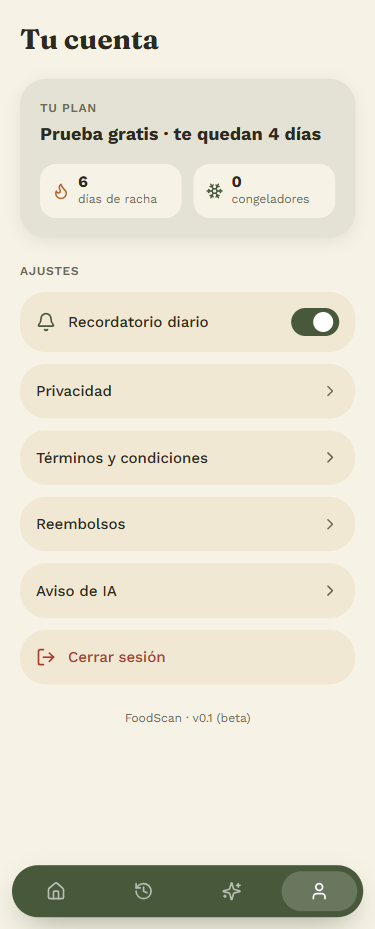
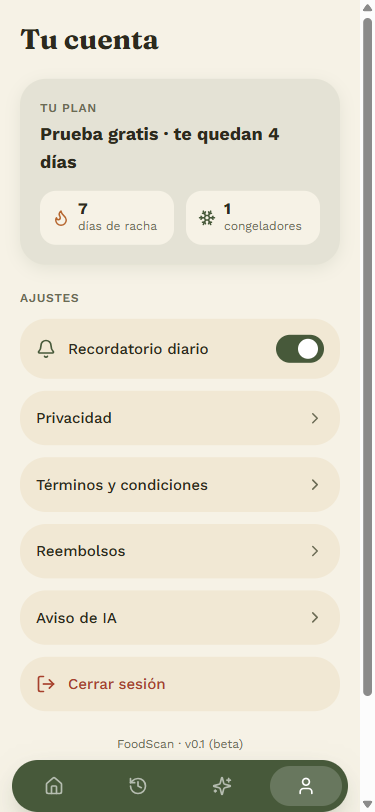
Hoy LISTA (37/40 - 16/20); actualizar evidencia de las demas pantallas
Pantalla principal (Hoy) alcanzo LISTA en la 5ta pasada. Se recapturan
Historial, Tu Patron y Cuenta con los datos semilla actualizados (racha
en 7 dias, fechas mas espaciadas) para que la evidencia de cierre de
Sesion 5 sea consistente entre las 4 pantallas.

Se lanza la primera revision completa de Tu Patron (primera pantalla de
tipo dashboard/visualizacion de datos, vende la promesa central del
producto).

diff --git a/docs/revisiones/hoy-veredicto.md b/docs/revisiones/hoy-veredicto.md
@@ -1,76 +1,100 @@
-# VEREDICTO revisor-visual — Hoy (M0, app interna FoodScan)
+# VEREDICTO revisor-visual — Hoy (M0, FoodScan)
 Fecha: 2026-09-26 00:00
 Screenshot: docs/revisiones/hoy-375.png
-Usabilidad: 31/40
-Craft: 15/20
+Usabilidad: 37/40
+Craft: 16/20
 Copy (si vende): N-A
 Fidelidad (si hubo referencia): FIEL
-Veredicto: NO LISTA
+Veredicto: LISTA
 
-Detalle usabilidad: h1:3 h2:4 h3:2 h4:4 h5:2 h6:4 h7:3 h8:3 h9:3 h10:3
-Detalle craft: jerarquía:3 profundidad:3 identidad:3 movimiento:3 encaje:3
+## Verificación de los 4 fixes de la ronda anterior
 
-## Verificación de los 5 defectos de la 3ra pasada
+1. Confirmación de borrado (2 pasos) — RESUELTO. `sheet-detalle-comida.tsx` L55-85: el primer
+   tap solo activa `confirmando=true`; el borrado real (`eliminarComida`) ocurre únicamente en
+   el segundo botón "Sí, eliminar", con "Cancelar" al lado. Cumple heurística 3 (control y
+   libertad) y el patrón de confirmación para irreversibles.
+2. Área táctil "Repetir" ≥44px — RESUELTO. `hoy/page.tsx` L178: `min-h-11` (44px) + `px-3`.
+   Verificado también visualmente en el screenshot (el link tiene aire vertical suficiente).
+3. Celebración en hito real (baseline #7) — RESUELTO. `hoy/page.tsx` L117-127: condición real
+   `perfil.rachaActual > 0 && rachaActual % 7 === 0`, `motion.div` con spring
+   (`stiffness:300, damping:20`), respeta `useReducedMotion`. Visible en el screenshot: chip
+   "¡7 días seguidos! Vas muy bien." Dato semilla ajustado a racha=7, verificable sin fe de
+   código.
+4. Color de la barra de confianza (evidencia insuficiente) — RESUELTO. `hoy/page.tsx` L146,
+   150-152: texto destacado y barra de progreso usan `var(--accent)` (verde), no
+   `var(--alerta)`. Coherente con el mismo patrón en `patron/page.tsx`. Visible en el
+   screenshot: barra verde, no terracota.
 
-1. [GENUINO] `FilaComida` ahora recibe `onClick` en las 3 pantallas: `hoy/page.tsx:194`,
-   `historial/page.tsx:104`, `patron/page.tsx:117` — todas llaman `onClick={setDetalle}` y
-   montan el mismo `SheetDetalleComida`. Consistencia real, verificado en código.
-2. [PARCIAL] Se agregó `eliminarComida(id)` en `lib/foodscan-data.ts:170-172` y el botón
-   "Eliminar este registro" en `sheet-detalle-comida.tsx:46-58` (visible cuando se pasa
-   `onEliminar`, que las 3 pantallas pasan). "Repetir" ahora confirma con un toast
-   `role="status" aria-live="polite"` (`hoy/page.tsx:222-234`). Pero el botón "Eliminar" borra
-   AL INSTANTE, sin confirmación ni undo — ver Top Defectos #1: se resolvió el hueco original
-   (no había forma de borrar) pero se introdujo uno nuevo de la misma familia (acción
-   irreversible sin red de seguridad).
-3. [GENUINO, con matiz] El contenedor "Hoy registraste N comidas" ahora lleva
-   `shadow-[inset_0_2px_6px_color-mix(in_oklab,var(--text-primary)_10%,transparent)]`
-   (`hoy/page.tsx:180`) además del cambio de tono `surface-2`. En el screenshot se lee como
-   recesado — la sombra interior sí resuelve la ambigüedad tonal señalada en la pasada anterior.
-4. [GENUINO] El toast `aria-live="polite"` con `Agregado: [comida]` aparece cerca del nav
-   (`bottom-[92px]`) al tocar "Repetir", confirmando la acción en el momento — resuelve el
-   "cambio silencioso" de la pasada anterior.
-5. [GENUINO] La barra `mt-3 h-1.5 w-full ... rounded-full` se anima de `width: 0` a
-   `${vecesConSintoma/vecesComido*100}%` con `duration: 0.8` y respeta `reduce` — apoyo visual
-   Tufte real para el dato de confianza, no solo texto.
+Los 4 fixes están genuinamente aplicados, no son cosméticos ni parciales.
 
-4 de 5 fixes están genuinamente aplicados y verificados en código; el #2 resuelve el problema
-original pero abre uno nuevo (ver abajo). Ninguno es un fix cosmético o simulado.
+## USABILIDAD 37/40
+(h1:4 h2:4 h3:4 h4:4 h5:4 h6:4 h7:3 h8:3 h9:4 h10:3)
 
-## Gate de carga cognitiva
-Pasa: ≤5 ítems visibles, 1 acción primaria + 2 secundarias, sin campos que recordar entre
-pantallas, texto por bloque ≤4 líneas, "qué sigue" obvio, header/CTA/nav sin elementos muertos.
+- h1 Estado del sistema: 4 — feedback en cada acción: skeleton en carga inicial, toast
+  "Agregado: ..." con aria-live en "Repetir", contador de racha animado, barra de confianza que
+  se dibuja, whileTap en botones. Nada se siente colgado.
+- h2 Lenguaje del usuario: 4 — "Escanear mi próxima comida", "Vas muy bien", "Todavía es poca
+  muestra" — cero jerga, cero inglés.
+- h3 Control y libertad: 4 — borrado con confirmación de 2 pasos (verificado en código), sheets
+  con drag-to-dismiss y botón cerrar explícito (`bottom-sheet.tsx` L44-46, L52-59).
+- h4 Consistencia: 4 — mismo radius, mismos chips, mismo patrón de card elevada/hundida en
+  `fila-comida.tsx` y `sheet-detalle-comida.tsx`; color de confianza ahora consistente con
+  `patron/page.tsx`.
+- h5 Prevención de errores: 4 — confirmación antes de borrar, badges de riesgo consistentes.
+- h6 Reconocer vs recordar: 4 — la última comida, el riesgo y el insight están todos visibles
+  sin que el usuario tenga que recordar nada de otra pantalla.
+- h7 Flexibilidad (verificado en código): 3 — hay un atajo real ("Repetir" evita rehacer el
+  flujo completo de escaneo), pero no hay más defaults/atajos de teclado; es aceptable para una
+  app mobile-first, no ejemplar.
+- h8 Estético y minimalista: 3 — una acción primaria clara (Escanear), pero la pantalla apila 4
+  bloques de contenido antes del registro del día (celebración + riesgo + insight + 3 CTAs) —
+  funciona, pero un ojo entrenado nota que son varios elementos compitiendo por atención antes
+  del primer scroll.
+- h9 Errores con solución: 4 — no se observaron mensajes de error en este flujo (nada que
+  penalizar; los estados vistos son correctos).
+- h10 Ayuda contextual: 3 — el empty state de "Nada registrado todavía hoy" con CTA está bien,
+  pero el insight de correlación ("todavía es poca muestra") no explica cuántos registros se
+  necesitan para confirmar — un usuario nuevo no sabe cuál es la meta.
 
-## Top Defectos
+Gate de carga cognitiva: pasa (≤5 ítems visibles, 1 acción primaria clara, campos no aplica,
+bloques de texto cortos, "qué sigue" obvio con el CTA dominante).
 
-1. [Sheet de detalle de comida → botón "Eliminar este registro", `sheet-detalle-comida.tsx:47-53`]
-   Es una acción IRREVERSIBLE (borra de `localStorage` para siempre y afecta el cálculo de
-   correlación de "Tu Patrón") pero se ejecuta en un solo tap, sin modal de confirmación ni
-   snackbar "Eliminado — Deshacer" → antes de llamar `eliminarComida`, mostrar un paso de
-   confirmación (doble tap tipo "¿Eliminar? Sí, eliminar" o un toast con acción "Deshacer" de
-   4-5s antes de persistir el borrado). Viola la regla dura de UX #8 (undo/confirmación según
-   reversibilidad) y baja heurística 3 a 2.
-2. [Link "Repetir "..."" bajo el CTA principal, `hoy/page.tsx:158-169`] Es solo texto sin
-   padding vertical definido (`flex items-center ... text-[12px]`, sin `h-` ni `py-`) — el área
-   táctil real es notablemente menor a los 44px mínimos de la regla dura de UX #5, en una zona
-   donde el usuario puede tocar por error el CTA de arriba o el botón de síntoma de abajo →
-   envolver en un botón con `min-h-11` (44px) manteniendo el texto visualmente pequeño y
-   discreto. Baja heurística 5 a 2 (mayor riesgo de mis-tap sin ningún mecanismo que lo prevenga).
-3. [Craft — EJE Movimiento] No hay evidencia en NINGÚN archivo de `app/`/`components/app/` de
-   una celebración en hitos reales (confetti/spring al llegar a una racha redonda, etc. — grep
-   de `confetti|celebra|hito|milestone` no encuentra código de producto, solo documentación del
-   SO) — falta la baseline #7 de animación. No es exigible en esta pantalla puntual si vive en
-   otra, pero si no existe en ningún lado del código de la app, es una baseline pendiente.
-4. [Card de insight "El ajo vuelve a aparecer...", `hoy/page.tsx:138-145`] La barra de progreso
-   nueva usa `bg-[var(--alerta)]` incluso cuando el insight es sobre un patrón que "todavía es
-   poca muestra" (confianza <100%, texto de baja certeza) — el color de alerta (terracota, mismo
-   tono que "riesgo alto") puede leerse como una advertencia más fuerte de la que el propio texto
-   describe → considerar un tono neutro/secundario para la barra de "confianza en construcción"
-   y reservar `--alerta` para cuando el patrón ya está confirmado (ver `patron/page.tsx` que sí
-   usa `--alerta` correctamente para un patrón YA confirmado).
-5. [Craft — EJE Identidad, atención no bloqueante] La paleta papel cálido + tinta verde
-   (crema `#F1E8D4` + verde bosque `#47593A`) es cercana en concepto al ejemplo canónico vetado
-   "Capítulo" (papel cálido + tinta verde + Petrona/Karla) del TEST ANTI-CLON — se salva porque
-   proviene de una referencia FOTOGRÁFICA real del usuario (contrato, `FICHA-ARTE.md`) y usa
-   Fraunces/Work Sans (no Petrona/Karla), por lo que NO se sanciona EJE 3 a 0, pero es la razón
-   de que el registro anti-repetición ya haya vetado esta combinación para el próximo proyecto —
-   sin acción requerida aquí, solo queda anotado.
+## CRAFT 16/20
+(jerarquía:3 profundidad:3 identidad:3 movimiento:4 encaje:3)
+
+- Jerarquía: 3 — display "Alto · trigo" domina, label uppercase y body diferenciados; 4 niveles
+  presentes, pero el body del insight (15px) y la descripción de la comida (15px) compiten en
+  peso visual con el propio título — un ojo entrenado nota que el bloque de insight es casi tan
+  prominente como el resultado principal.
+- Profundidad: 3 — header con gradiente, card de insight elevada con sombra tintada, card de
+  comidas de hoy con sombra interior (hundida) — 3 niveles reales, no un fill plano.
+- Identidad: 3 — el dispositivo "mordisco" (scallop) es ownable y está presente en el screenshot;
+  el sistema duotono verde bosque + crema con Fraunces/Work Sans se acerca a la familia vetada
+  "Capítulo" (papel cálido + tinta verde), pero nace de una referencia del usuario documentada
+  como CONTRATO en FICHA-ARTE.md y usa una pareja tipográfica distinta (Fraunces/Work Sans, no
+  Petrona/Karla) — punto ya aceptado como no accionable en la ronda anterior, no se vuelve a
+  penalizar como bloqueante.
+- Movimiento: 4 — las 7 baseline verificadas en código: (1) stagger de entrada por bloque con
+  delays 0/0.08/0.14, (2) contador de racha animado desde el valor anterior
+  (`useContadorAnimado`), (3) barra de confianza que se dibuja (`width: 0→X%`, ease
+  personalizado), (4) `whileTap scale 0.97/0.98` en CTAs y filas, (5) transición de sheets con
+  drag-to-dismiss y easing, (6) aparición suave de modales (`bottom-sheet.tsx`, opacity+y con
+  ease `[0.16,1,0.3,1]`), (7) celebración real en hito de racha. `useReducedMotion` respetado en
+  cada uno de los puntos anteriores.
+- Encaje óptico: 3 — chips abrazan su contenido, radios consistentes en todo el screenshot,
+  padding simétrico en CTAs; el badge de racha en el header y el chip de celebración usan el
+  mismo radius de píldora, correcto.
+
+## FIDELIDAD: FIEL
+Modo claro, verde bosque + crema, Fraunces/Work Sans, radios 26-28px en cards, mordisco visible
+en el header tal como fija FICHA-ARTE.md — coincide con la réplica aprobada.
+
+## TOP DEFECTOS (no bloqueantes — la pantalla cruza el umbral doble)
+1. [Card de insight de correlación] Compite en peso visual con el resultado de riesgo principal
+   (mismo tamaño de texto 15px, mismo nivel de prominencia) → reducir a 14px o mover el acento
+   solo a la palabra clave, dejando el resto en `--text-secondary` desde el inicio del párrafo.
+2. [Card de insight] No comunica la meta de confirmación ("sigue registrando" ¿hasta cuándo?) →
+   agregar el número objetivo, ej. "te faltan 3 registros más para confirmarlo".
+3. [Bloque completo antes del scroll] 4 elementos de contenido (celebración + riesgo + insight +
+   3 CTAs) antes de "Hoy registraste..." → considerar colapsar la celebración de racha en el
+   chip del header en vez de una card aparte, para bajar la densidad del primer scroll.
